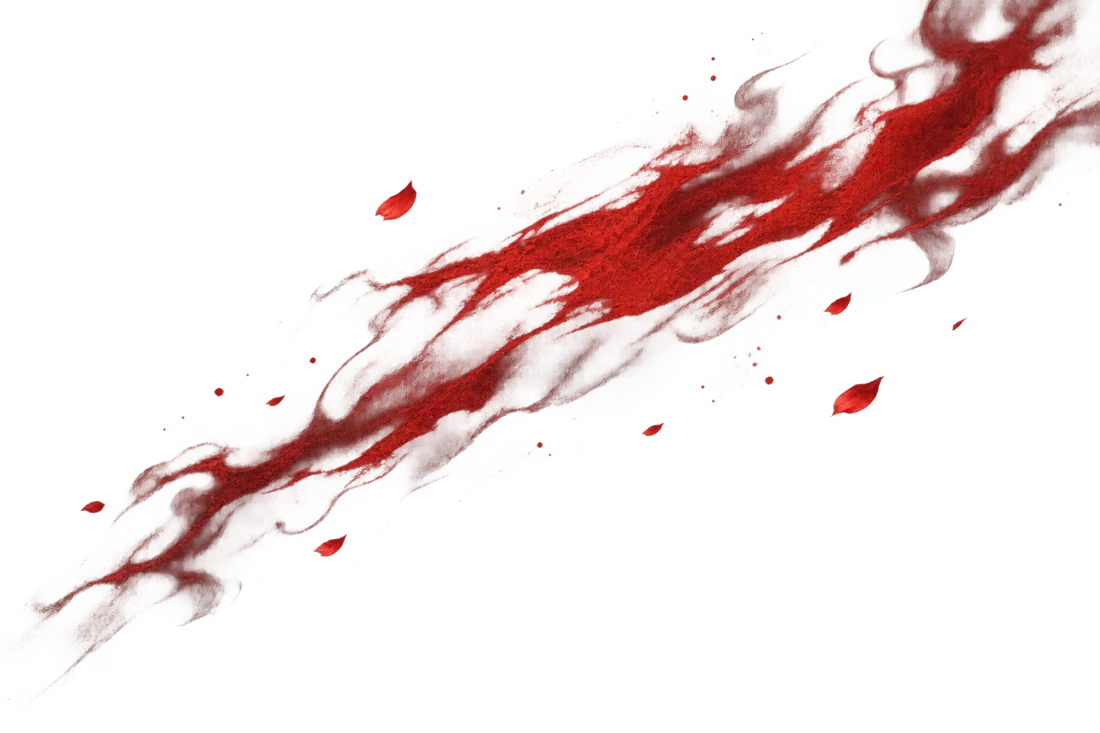
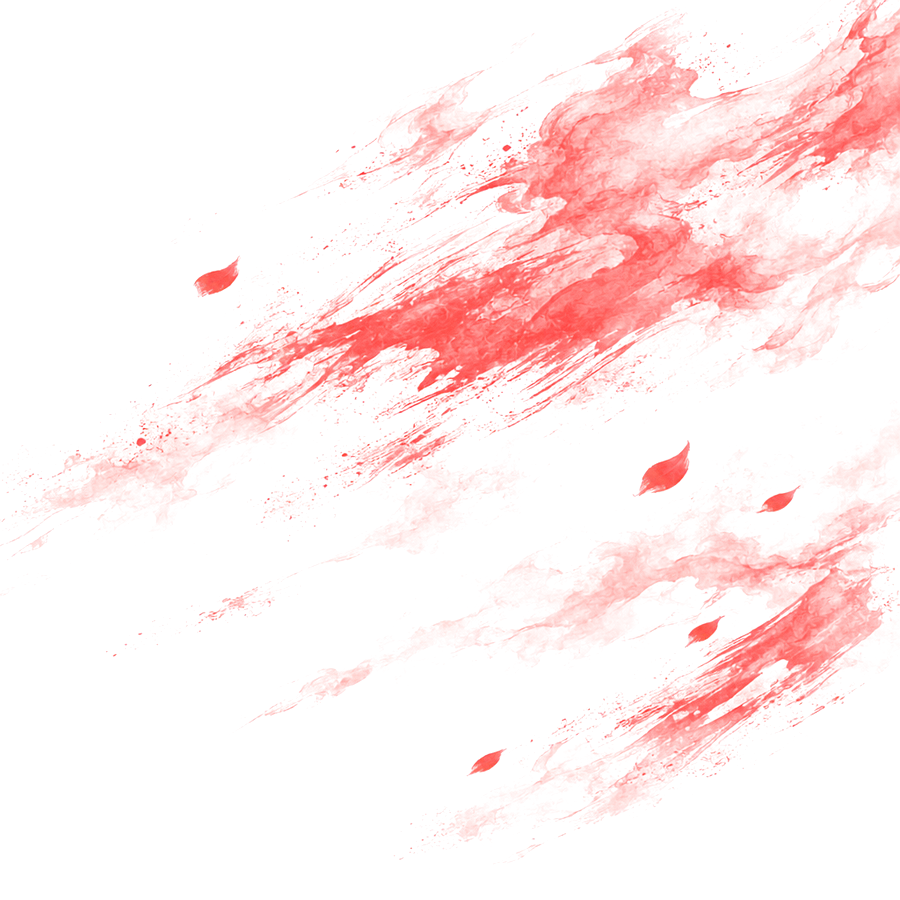
feat: regenerate ink smoke and mountains from reference with gpt-image

diff --git a/src/components/ink-stage.css b/src/components/ink-stage.css
@@ -42,11 +42,11 @@
   [data-theme="ink"] .ink-paper--bottom { display: none; }
   [data-theme="ink"] .ink-mountains, [data-theme="ink"] .ink-smoke { display: block; }
   [data-theme="ink"] .ink-mountains--br {
-    right: 0; bottom: 0; width: calc(560 * var(--u)); opacity: .8; filter: brightness(.82);
+    right: 0; bottom: 0; width: calc(640 * var(--u)); opacity: .9;
     -webkit-mask-image: linear-gradient(90deg, transparent 0, #000 38%);
     mask-image: linear-gradient(90deg, transparent 0, #000 38%);
   }
-  [data-theme="ink"] .ink-mountains--left { left: calc(-30 * var(--u)); top: calc(140 * var(--u)); width: calc(440 * var(--u)); opacity: .42; }
+  [data-theme="ink"] .ink-mountains--left { left: calc(-20 * var(--u)); top: calc(170 * var(--u)); width: calc(320 * var(--u)); opacity: .85; }
   [data-theme="ink"] .ink-smoke { top: calc(44 * var(--u)); right: calc(50 * var(--u)); width: calc(400 * var(--u)); opacity: .9; }
   /* 守护者：3DCG 立绘，边缘用墨晕渐隐融进底子。 */
   [data-theme="ink"] .ink-guardian--dark {
